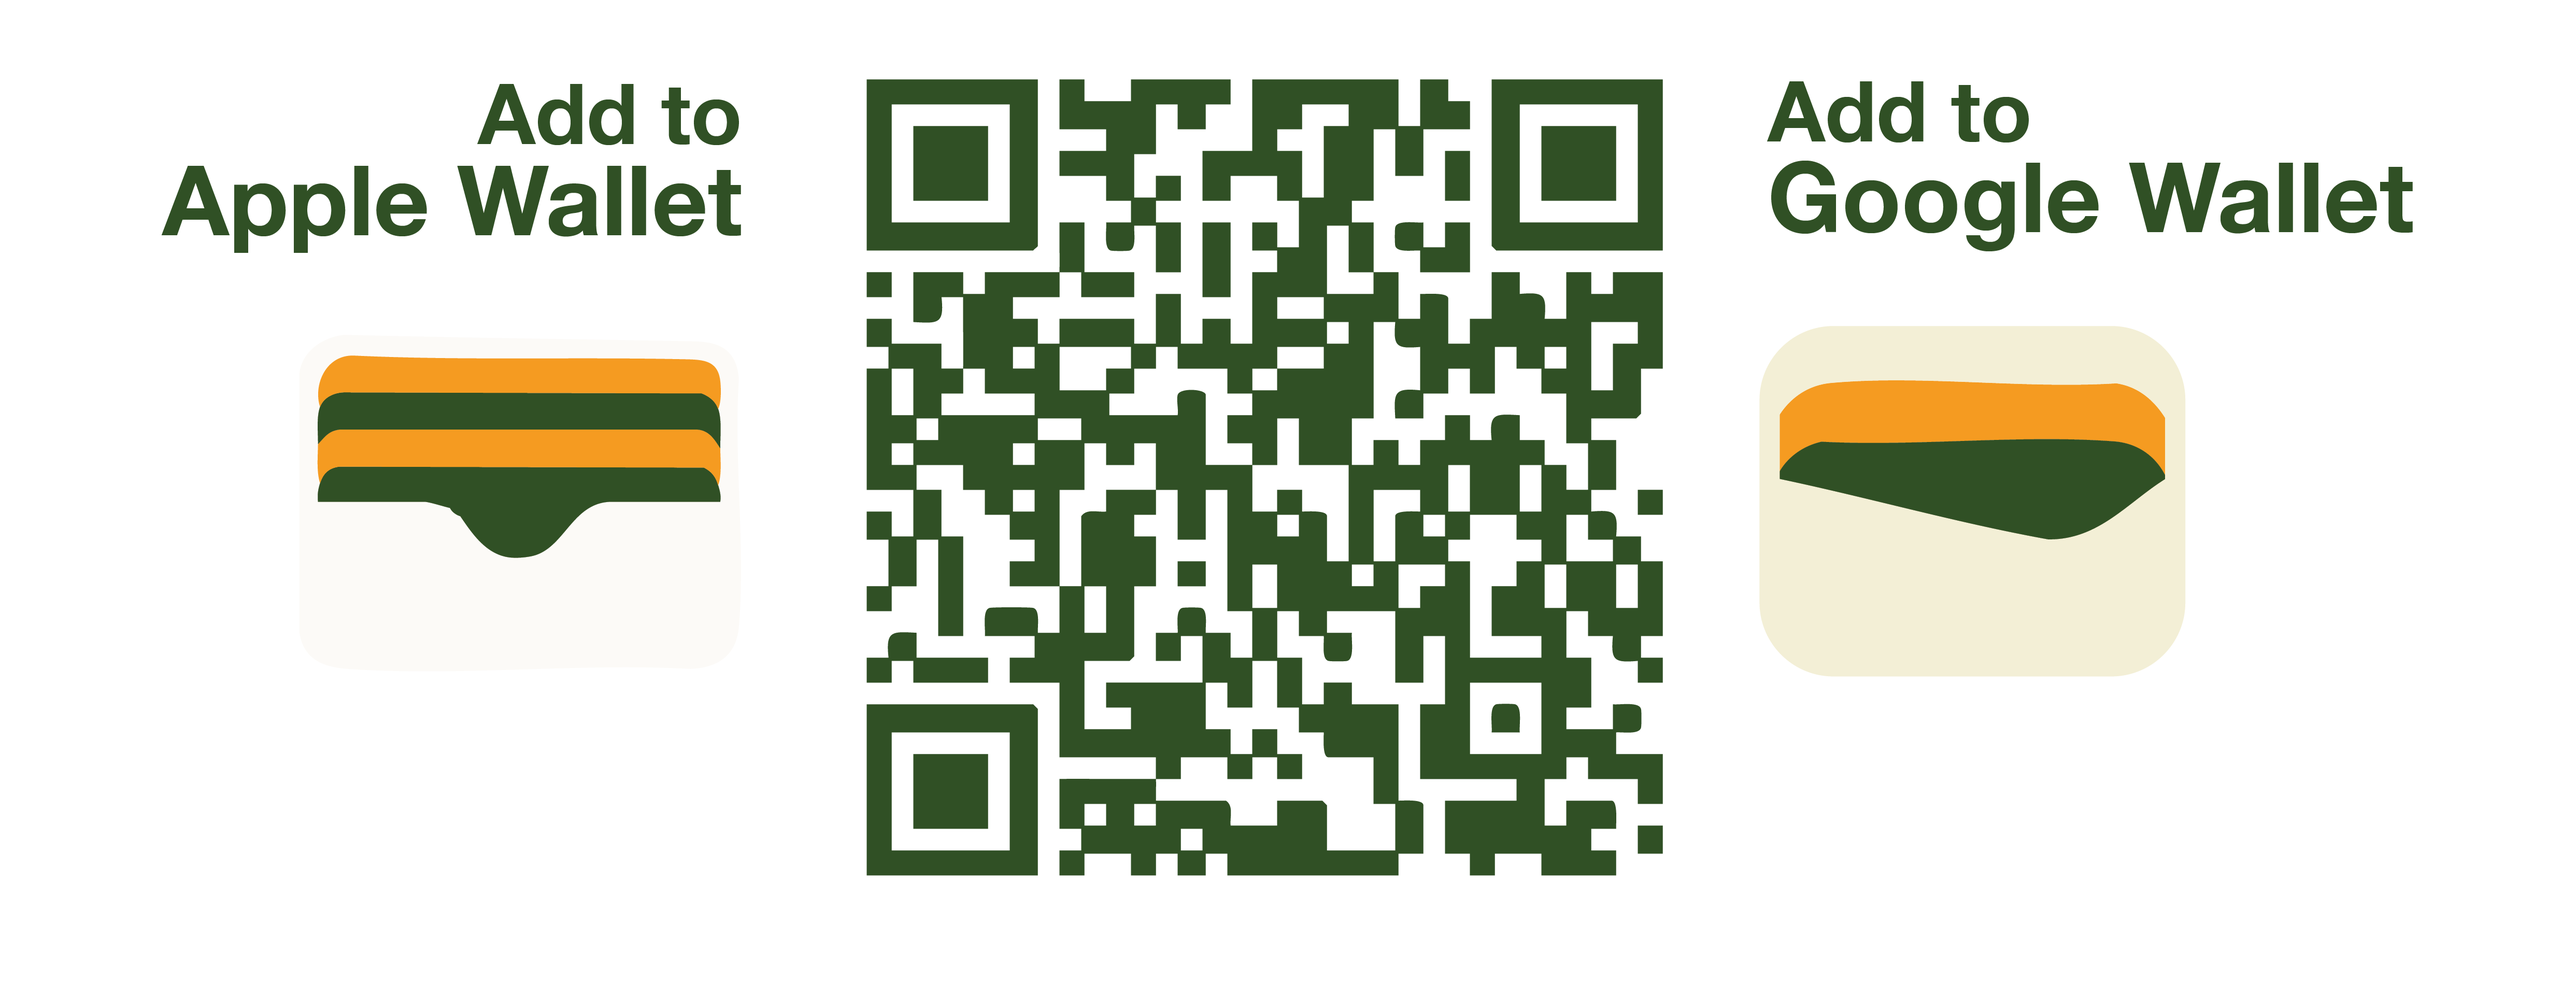
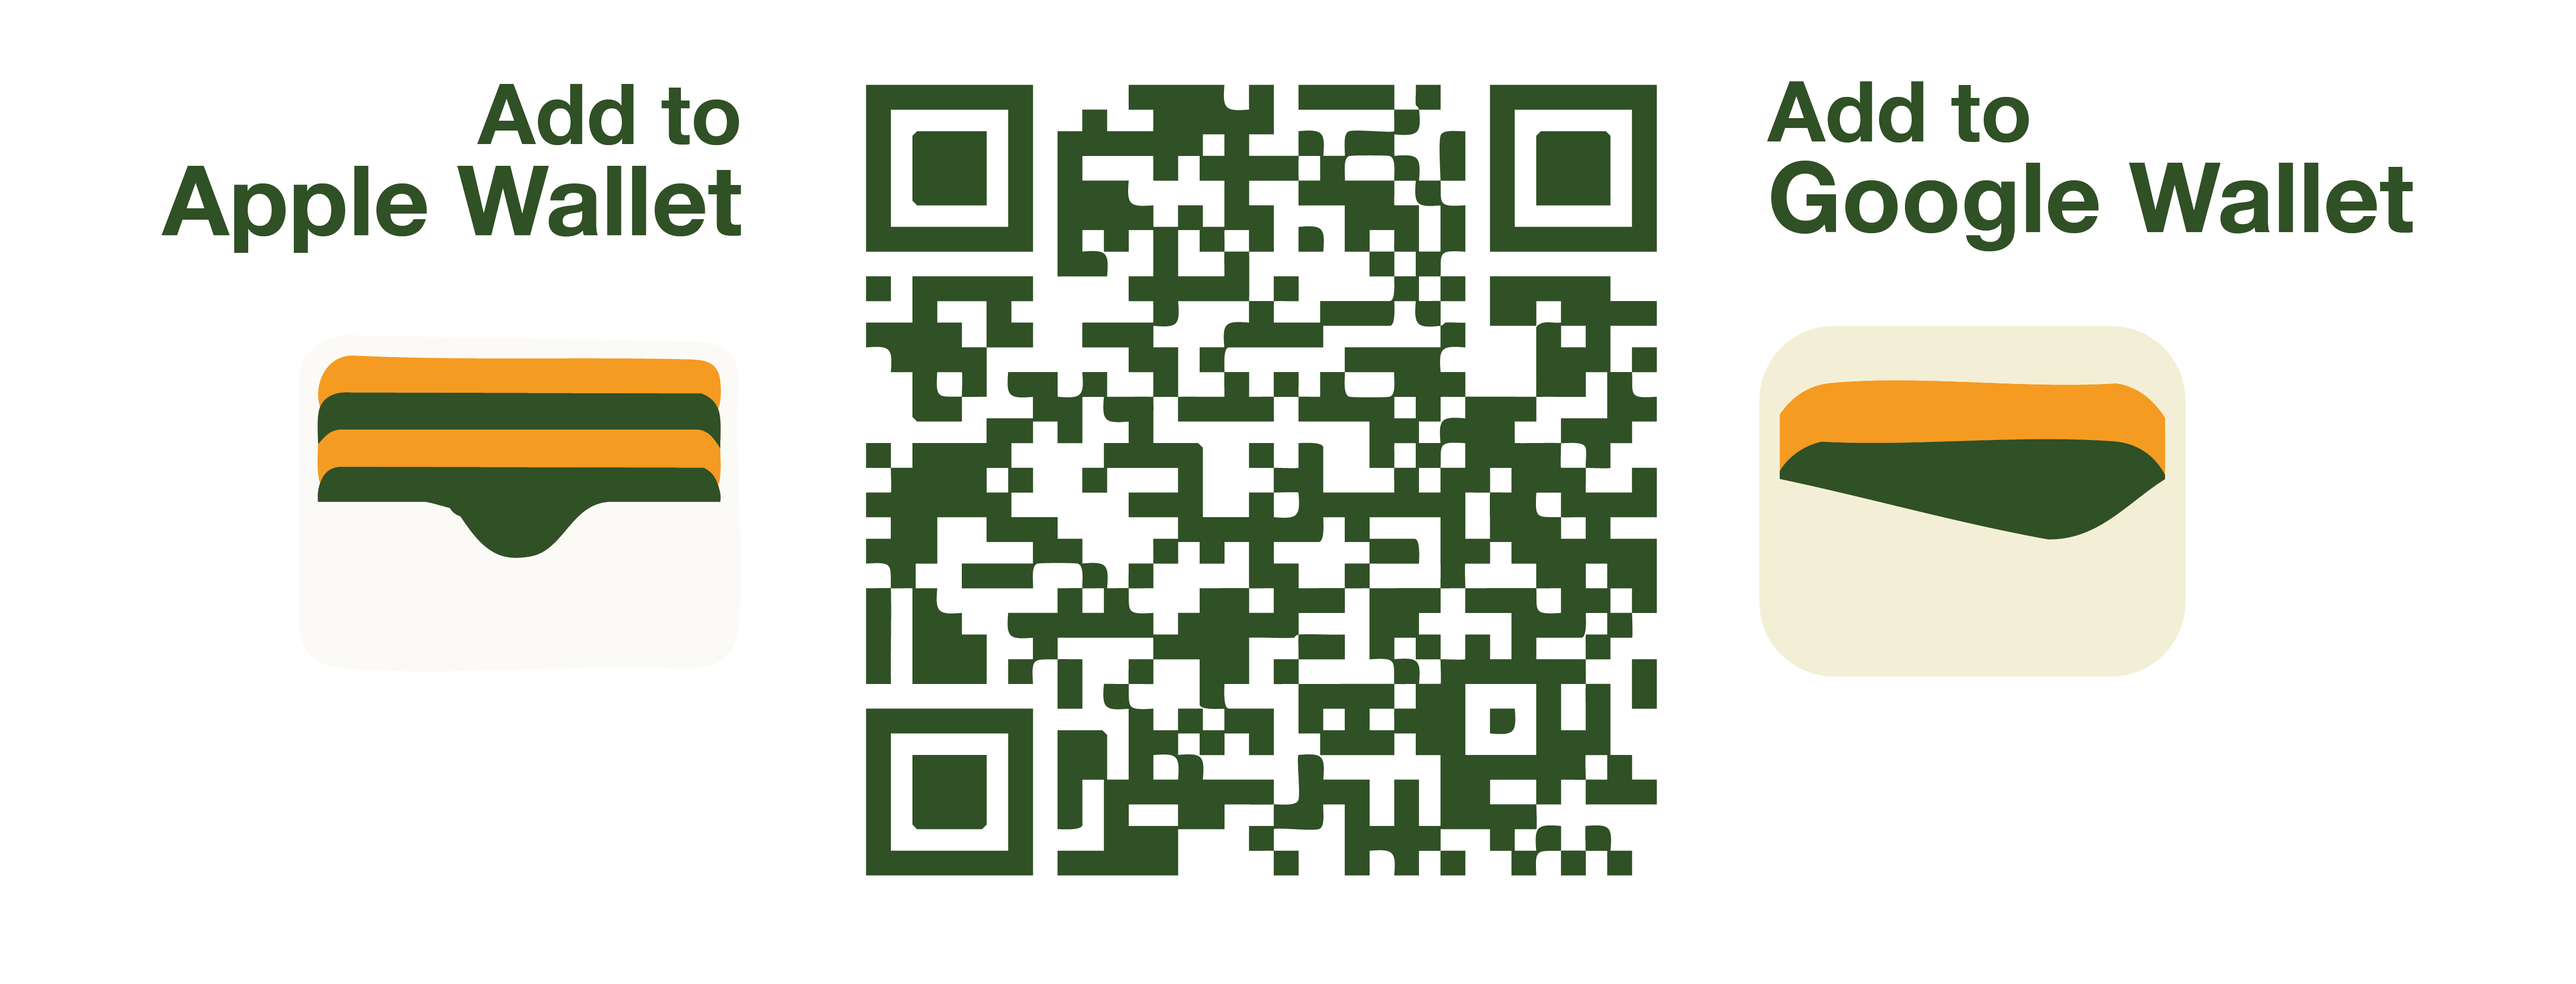
great

Changed region(s): [[0.3118, 0.0621, 0.6548, 0.901]]

diff --git a/thank-you.html b/thank-you.html
@@ -91,15 +91,15 @@
     <!-- Overlay the two wallet buttons in the bottom quarter of the hero image -->
     <div class="overlay" aria-hidden="false">
       <div class="wallet-row-mobile">
-        <a class="wallet-link" href="https://app.addtowallet.co/card/6971324bd534be7f41b88d9e" target="_blank" rel="noopener">
+        <a class="wallet-link" href="https://app.addtowallet.co/card/6972290987fffcc65b0adcca" target="_blank" rel="noopener">
           <img class="wallet" src="Assets/google-wallet-button.png" alt="Add to Google Wallet">
         </a>
-        <a class="wallet-link" href="https://app.addtowallet.co/card/6971324bd534be7f41b88d9e" target="_blank" rel="noopener">
+        <a class="wallet-link" href="https://app.addtowallet.co/card/6972290987fffcc65b0adcca" target="_blank" rel="noopener">
           <img class="wallet" src="Assets/apple-wallet-button.png" alt="Add to Apple Wallet">
         </a>
       </div>
       <div class="wallet-row-desktop">
-        <a class="wallet-link" href="https://app.addtowallet.co/card/6971324bd534be7f41b88d9e" target="_blank" rel="noopener">
+        <a class="wallet-link" href="https://app.addtowallet.co/card/6972290987fffcc65b0adcca" target="_blank" rel="noopener">
           <img class="wallet-qr" src="Assets/qr.png" alt="Add to Wallet QR">
         </a>
       </div>
